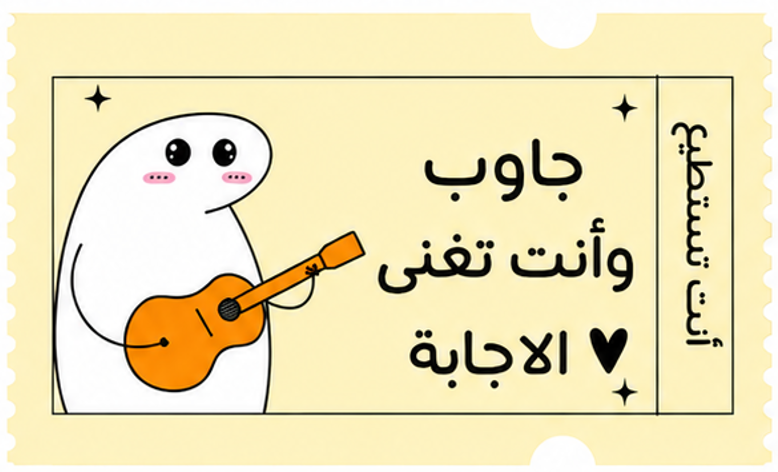
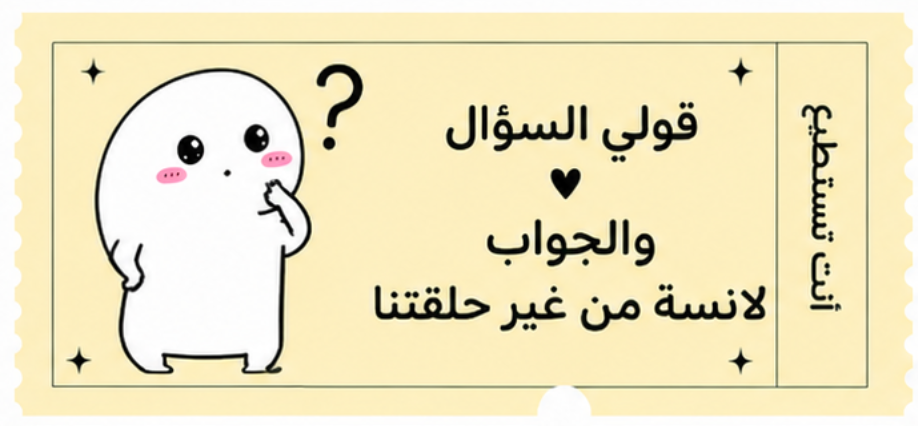
edit photos

diff --git a/index.html b/index.html
@@ -1229,7 +1229,8 @@
     { image: 17, question: "توضأت فتاة وهي ترتدي كنزة بكم طويل، وعند رفع الكم استطاعت رفعه إلى ما قبل المرفق بقليل وغسلت يديها وأتمت وضوئها. هل وضوئها صحيح؟" },
     { image: 18, question: "توضأت فتاة لصلاة العصر وقبل أن تصلي نامت قليلاً ثم استيقظت وذهبت لتصلي لأنها توضأت قبل النوم. هل تصرفت بشكل سليم أم لا ولماذا؟" },
     { image: 19, question: "اذكري لنا اثنتين من فضائل الوضوء." },
-    { image: 20, question: "الحد الذي يجب أن يصل إليه الماء عند غسل القدمين هو… (أشيري لنا على المكان الصحيح)." }
+    { image: 20, question: "الحد الذي يجب أن يصل إليه الماء عند غسل القدمين هو… (أشيري لنا على المكان الصحيح)." },
+    { image: 21, question: "سؤالك يا نحولة من الدرس الماضي: بتتذكري أنواع الماء الثلاثة، وصفات الماء، وأيا نوع لازم نستخدم بوضوئنا؟" }
   ];
 
   challengeCards.forEach(card => {